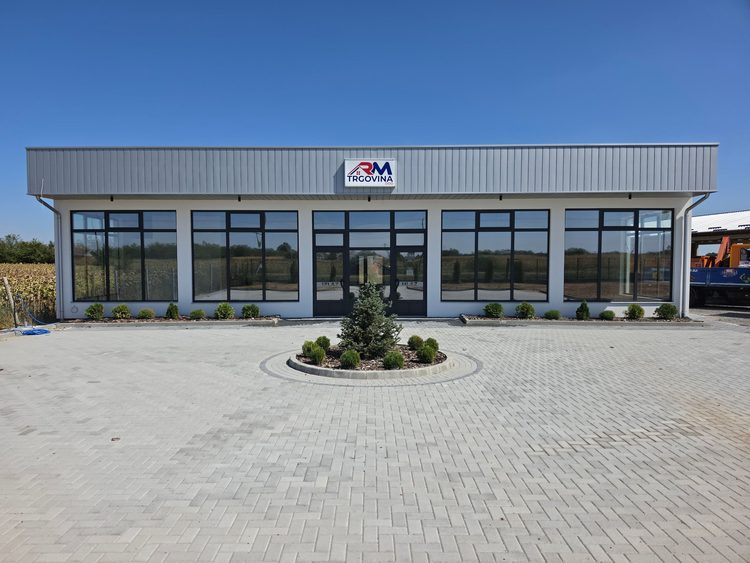
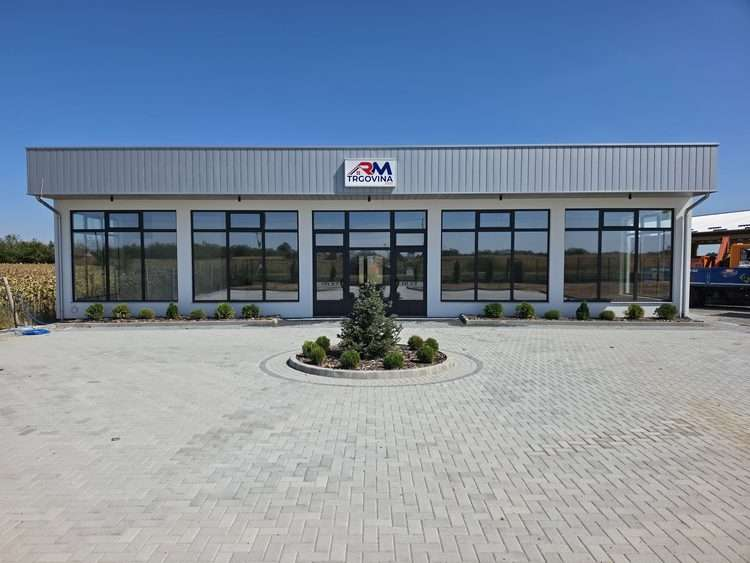
LCP optimizacija - uklonjen dupli fetch hero slike na Home/Galerija/O nama (preload scanner fix)

diff --git a/Galerija.dc.html b/Galerija.dc.html
@@ -3,8 +3,8 @@
 <head>
 <meta charset="utf-8">
 <meta name="viewport" content="width=device-width, initial-scale=1">
-<link rel="preload" as="image" href="./assets/gallery/vozni-park.webp" imagesrcset="./assets/gallery/vozni-park-mobile.webp 750w, ./assets/gallery/vozni-park.webp 1200w" imagesizes="(max-width: 767px) 100vw, 400px" fetchpriority="high">
-<link rel="preload" as="image" href="./assets/gallery/objekat-vladimirci-2.webp" imagesrcset="./assets/gallery/objekat-vladimirci-2-mobile.webp 750w, ./assets/gallery/objekat-vladimirci-2.webp 1200w" imagesizes="(max-width: 767px) 100vw, 400px" fetchpriority="high">
+<link rel="preload" as="image" href="./assets/gallery/vozni-park-mobile.webp" imagesrcset="./assets/gallery/vozni-park-mobile.webp 750w, ./assets/gallery/vozni-park.webp 1200w" imagesizes="(max-width: 767px) 100vw, 400px" fetchpriority="high">
+<link rel="preload" as="image" href="./assets/gallery/objekat-vladimirci-2-mobile.webp" imagesrcset="./assets/gallery/objekat-vladimirci-2-mobile.webp 750w, ./assets/gallery/objekat-vladimirci-2.webp 1200w" imagesizes="(max-width: 767px) 100vw, 400px" fetchpriority="high">
 <link rel="icon" type="image/png" sizes="32x32" href="./assets/favicon-32x32.png" fetchpriority="low">
 <link rel="preconnect" href="https://fonts.googleapis.com">
 <link rel="preconnect" href="https://fonts.gstatic.com" crossorigin>
@@ -158,9 +158,25 @@ class Component extends DCLogic {
     const categories = catDefs.map(c => {
       const tiles = c.files.map((fname, j) => {
         const i = idx++;
+        // Plain fallback filename for the `src` attribute below - the
+        // mobile variant when one exists, not the full-resolution original.
+        // `src` only matters for real rendering on a srcset-unaware
+        // browser (none in practice); every modern browser's real image
+        // candidate selection is governed entirely by srcset+sizes below,
+        // REGARDLESS of what src points to. But the browser's speculative
+        // PRELOAD SCANNER (the pre-parser that discovers resources before
+        // any JS runs) does NOT run that same selection logic on this
+        // custom element - it naively fetches the literal `src` value in
+        // addition to the srcset-resolved one, so a full-res `src` here
+        // was silently doubling network traffic on every load (confirmed
+        // via CDP request-initiator inspection: both fetches show up as
+        // initiator.type "parser"). Pointing `src` at the small file too
+        // eliminates that duplicate fetch with zero effect on what
+        // actually renders.
+        const fallbackFname = mobileVariants[fname] || fname;
         return {
           id: 'gal-' + i,
-          src: (i < 6 || this.state.visible[i]) ? './assets/gallery/' + fname : '',
+          src: (i < 6 || this.state.visible[i]) ? './assets/gallery/' + fallbackFname : '',
           // Only the first 2 (the ones matched by the preload links above)
           // get fetchpriority=high; same fetchpriority-before-src ordering
           // discipline used elsewhere so image-slot.js picks it up before

diff --git a/Home.dc.html b/Home.dc.html
@@ -3,7 +3,7 @@
 <head>
 <meta charset="utf-8">
 <meta name="viewport" content="width=device-width, initial-scale=1">
-<link rel="preload" as="image" href="./assets/magacin-eksterijer-vladimirci.jpg" imagesrcset="./assets/magacin-eksterijer-vladimirci-mobile.jpg 750w, ./assets/magacin-eksterijer-vladimirci.jpg 2890w" imagesizes="100vw" fetchpriority="high">
+<link rel="preload" as="image" href="./assets/magacin-eksterijer-vladimirci-mobile.jpg" imagesrcset="./assets/magacin-eksterijer-vladimirci-mobile.jpg 750w, ./assets/magacin-eksterijer-vladimirci.jpg 2890w" imagesizes="100vw" fetchpriority="high">
 <link rel="icon" type="image/png" sizes="32x32" href="./assets/favicon-32x32.png" fetchpriority="low">
 <link rel="preconnect" href="https://fonts.googleapis.com">
 <link rel="preconnect" href="https://fonts.gstatic.com" crossorigin>
@@ -51,7 +51,7 @@
   <dc-import name="Header" active-page="Početna" transparent="{{ false }}" hint-size="100%,72px"></dc-import>
   <div style="position:relative;flex:1;display:flex;flex-direction:{{ heroOuterDirection }};align-items:center;min-height:0;overflow:visible;">
     <div style="{{ heroImageWrapStyle }}">
-      <image-slot id="hero-bg" fit="cover" shape="rect" radius="0" fetchpriority="high" alt="Spoljašnji izgled objekta i stovarišta RM-Trgovina u Vladimircima" srcset="./assets/magacin-eksterijer-vladimirci-mobile.jpg 750w, ./assets/magacin-eksterijer-vladimirci.jpg 2890w" sizes="100vw" src="./assets/magacin-eksterijer-vladimirci.jpg" placeholder="Magacin — placeholder"></image-slot>
+      <image-slot id="hero-bg" fit="cover" shape="rect" radius="0" fetchpriority="high" alt="Spoljašnji izgled objekta i stovarišta RM-Trgovina u Vladimircima" srcset="./assets/magacin-eksterijer-vladimirci-mobile.jpg 750w, ./assets/magacin-eksterijer-vladimirci.jpg 2890w" sizes="100vw" src="./assets/magacin-eksterijer-vladimirci-mobile.jpg" placeholder="Magacin — placeholder"></image-slot>
     </div>
     <div style="position:absolute;inset:0;z-index:1;background:{{ heroGradient1 }};pointer-events:none;display:{{ heroGradientDisplay }};"></div>
     <div style="position:absolute;inset:0;z-index:1;background:{{ heroGradient2 }};pointer-events:none;display:{{ heroGradientDisplay }};"></div>

diff --git a/ONama.dc.html b/ONama.dc.html
@@ -3,7 +3,7 @@
 <head>
 <meta charset="utf-8">
 <meta name="viewport" content="width=device-width, initial-scale=1">
-<link rel="preload" as="image" href="./assets/gallery/tim-i-magacin-1.webp" imagesrcset="./assets/gallery/tim-i-magacin-1-mobile.webp 750w, ./assets/gallery/tim-i-magacin-1.webp 1200w" imagesizes="(max-width: 767px) 100vw, 600px" fetchpriority="high">
+<link rel="preload" as="image" href="./assets/gallery/tim-i-magacin-1-mobile.webp" imagesrcset="./assets/gallery/tim-i-magacin-1-mobile.webp 750w, ./assets/gallery/tim-i-magacin-1.webp 1200w" imagesizes="(max-width: 767px) 100vw, 600px" fetchpriority="high">
 <link rel="icon" type="image/png" sizes="32x32" href="./assets/favicon-32x32.png" fetchpriority="low">
 <link rel="preconnect" href="https://fonts.googleapis.com">
 <link rel="preconnect" href="https://fonts.gstatic.com" crossorigin>
@@ -102,7 +102,16 @@ class Component extends DCLogic {
     return {
       slides: this.files.map((f, j) => ({
         id: 'onama-s' + j,
-        src: './assets/gallery/' + f,
+        // Slide 0's plain `src` fallback points at the mobile file, not
+        // the full-res original - the browser's speculative preload
+        // scanner fetches this literal value in ADDITION to whatever
+        // srcset/sizes resolve to on this custom element (confirmed via
+        // CDP request-initiator inspection: both show up as initiator
+        // "parser"), so a full-res src here was silently doubling network
+        // traffic on every load. Real rendering is unaffected either way
+        // - actual candidate selection is governed entirely by srcset+
+        // sizes on every modern browser, regardless of what src points to.
+        src: './assets/gallery/' + (j === 0 ? 'tim-i-magacin-1-mobile.webp' : f),
         alt: this.fileAlts[j],
         // Only the first slide is the LCP candidate (it's the one painted
         // on initial load, matching the preload link above) - the rest
